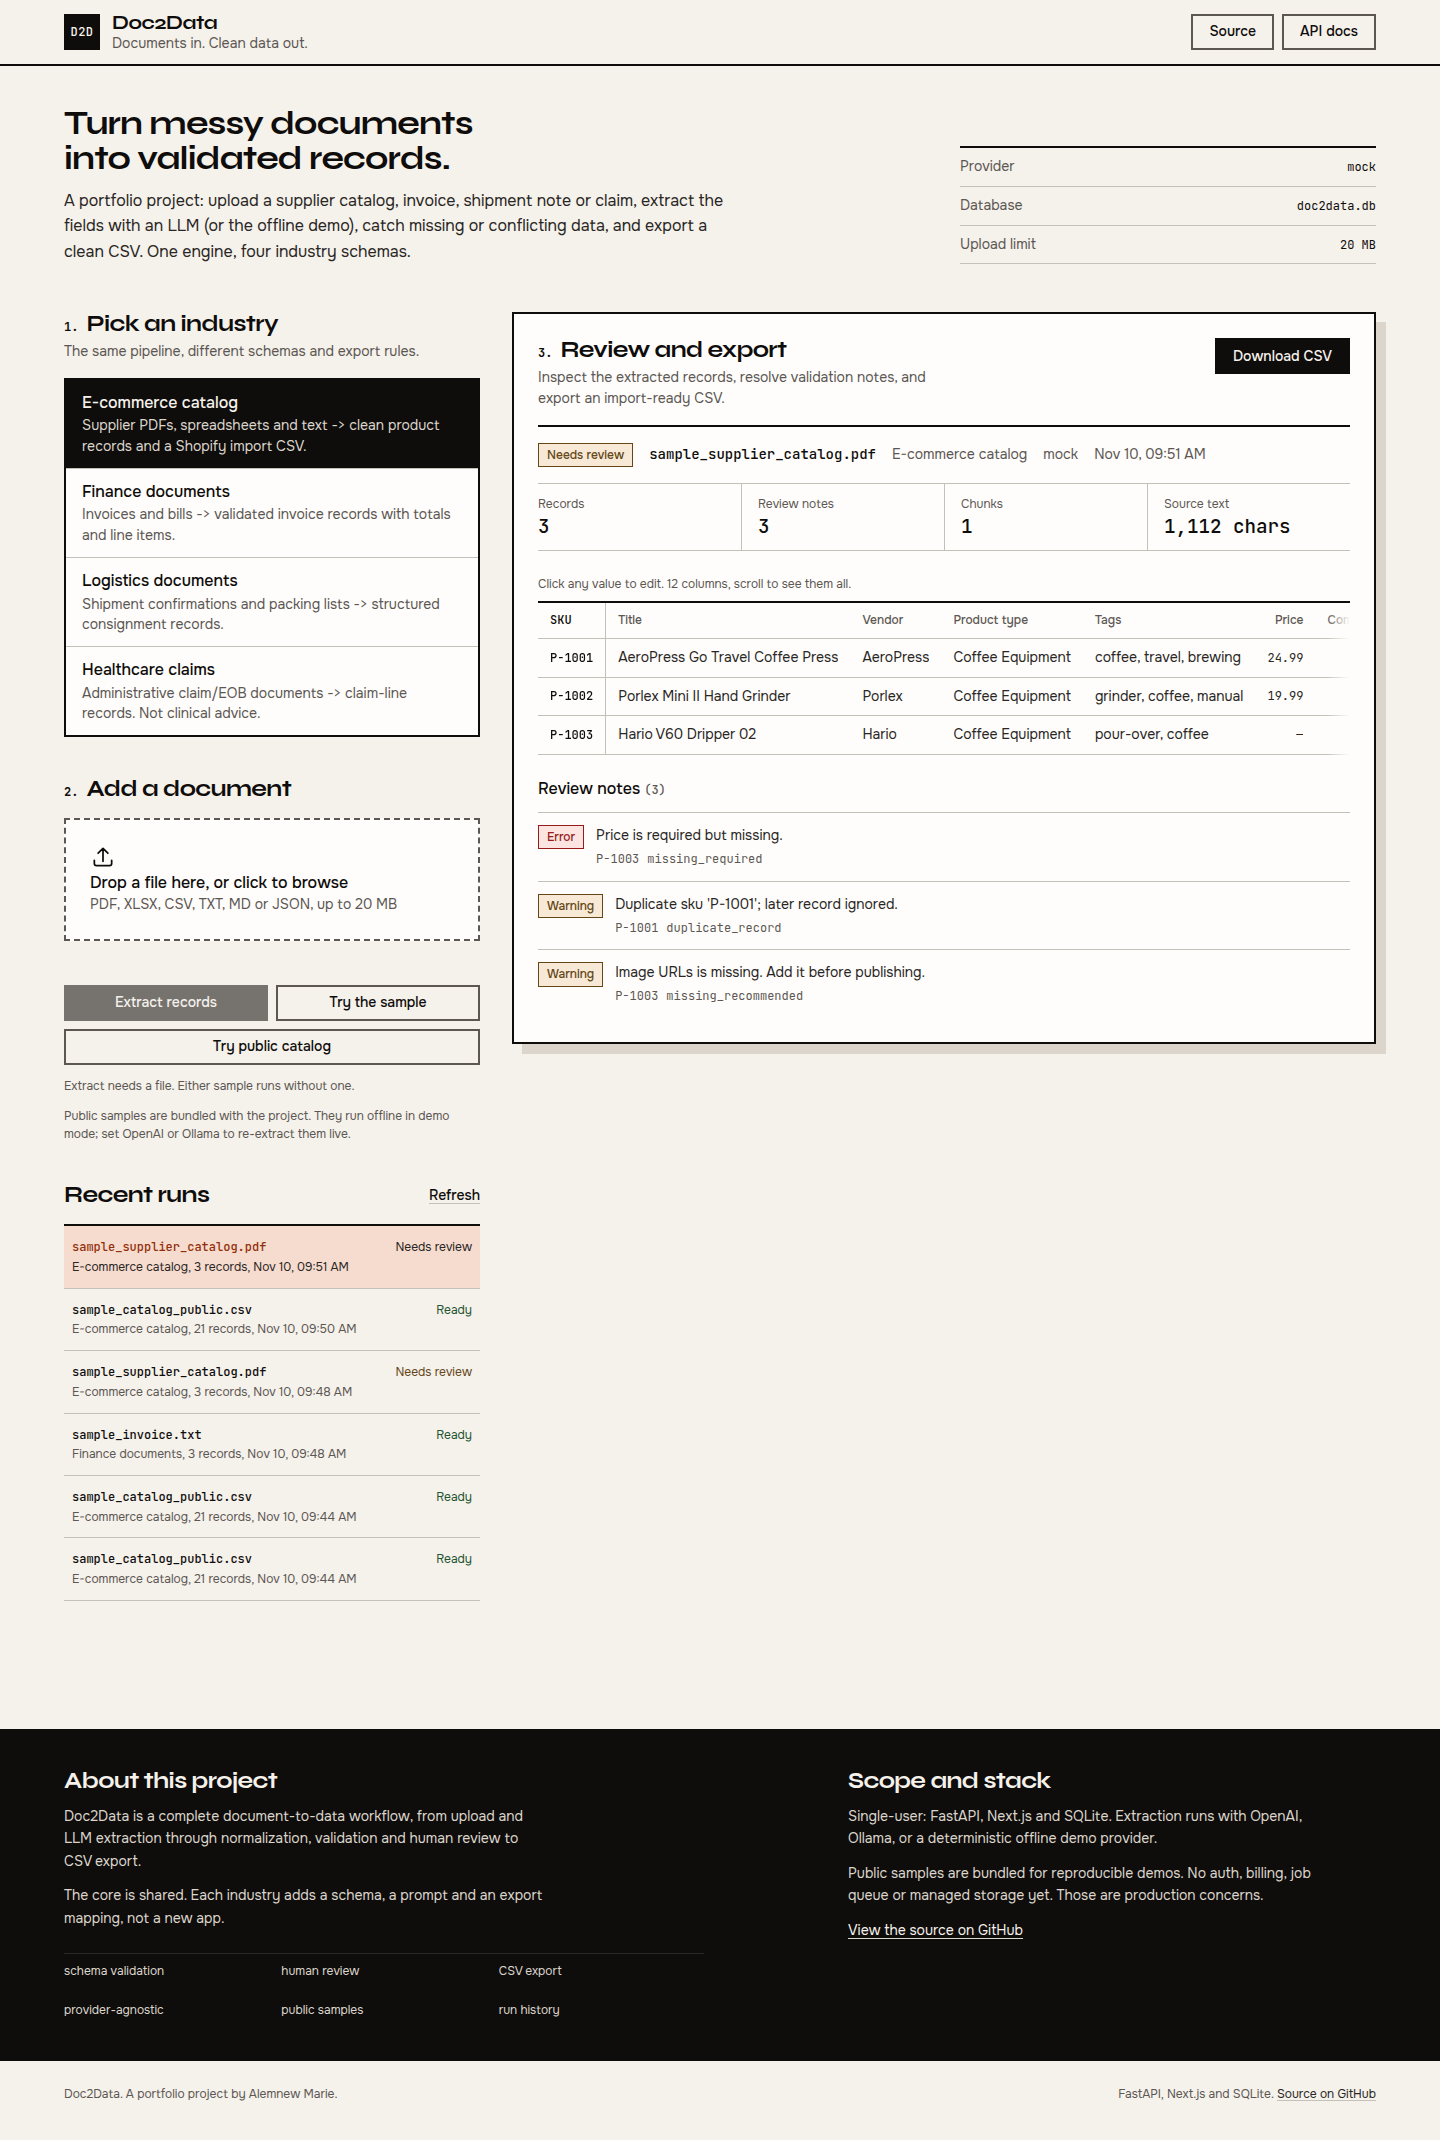
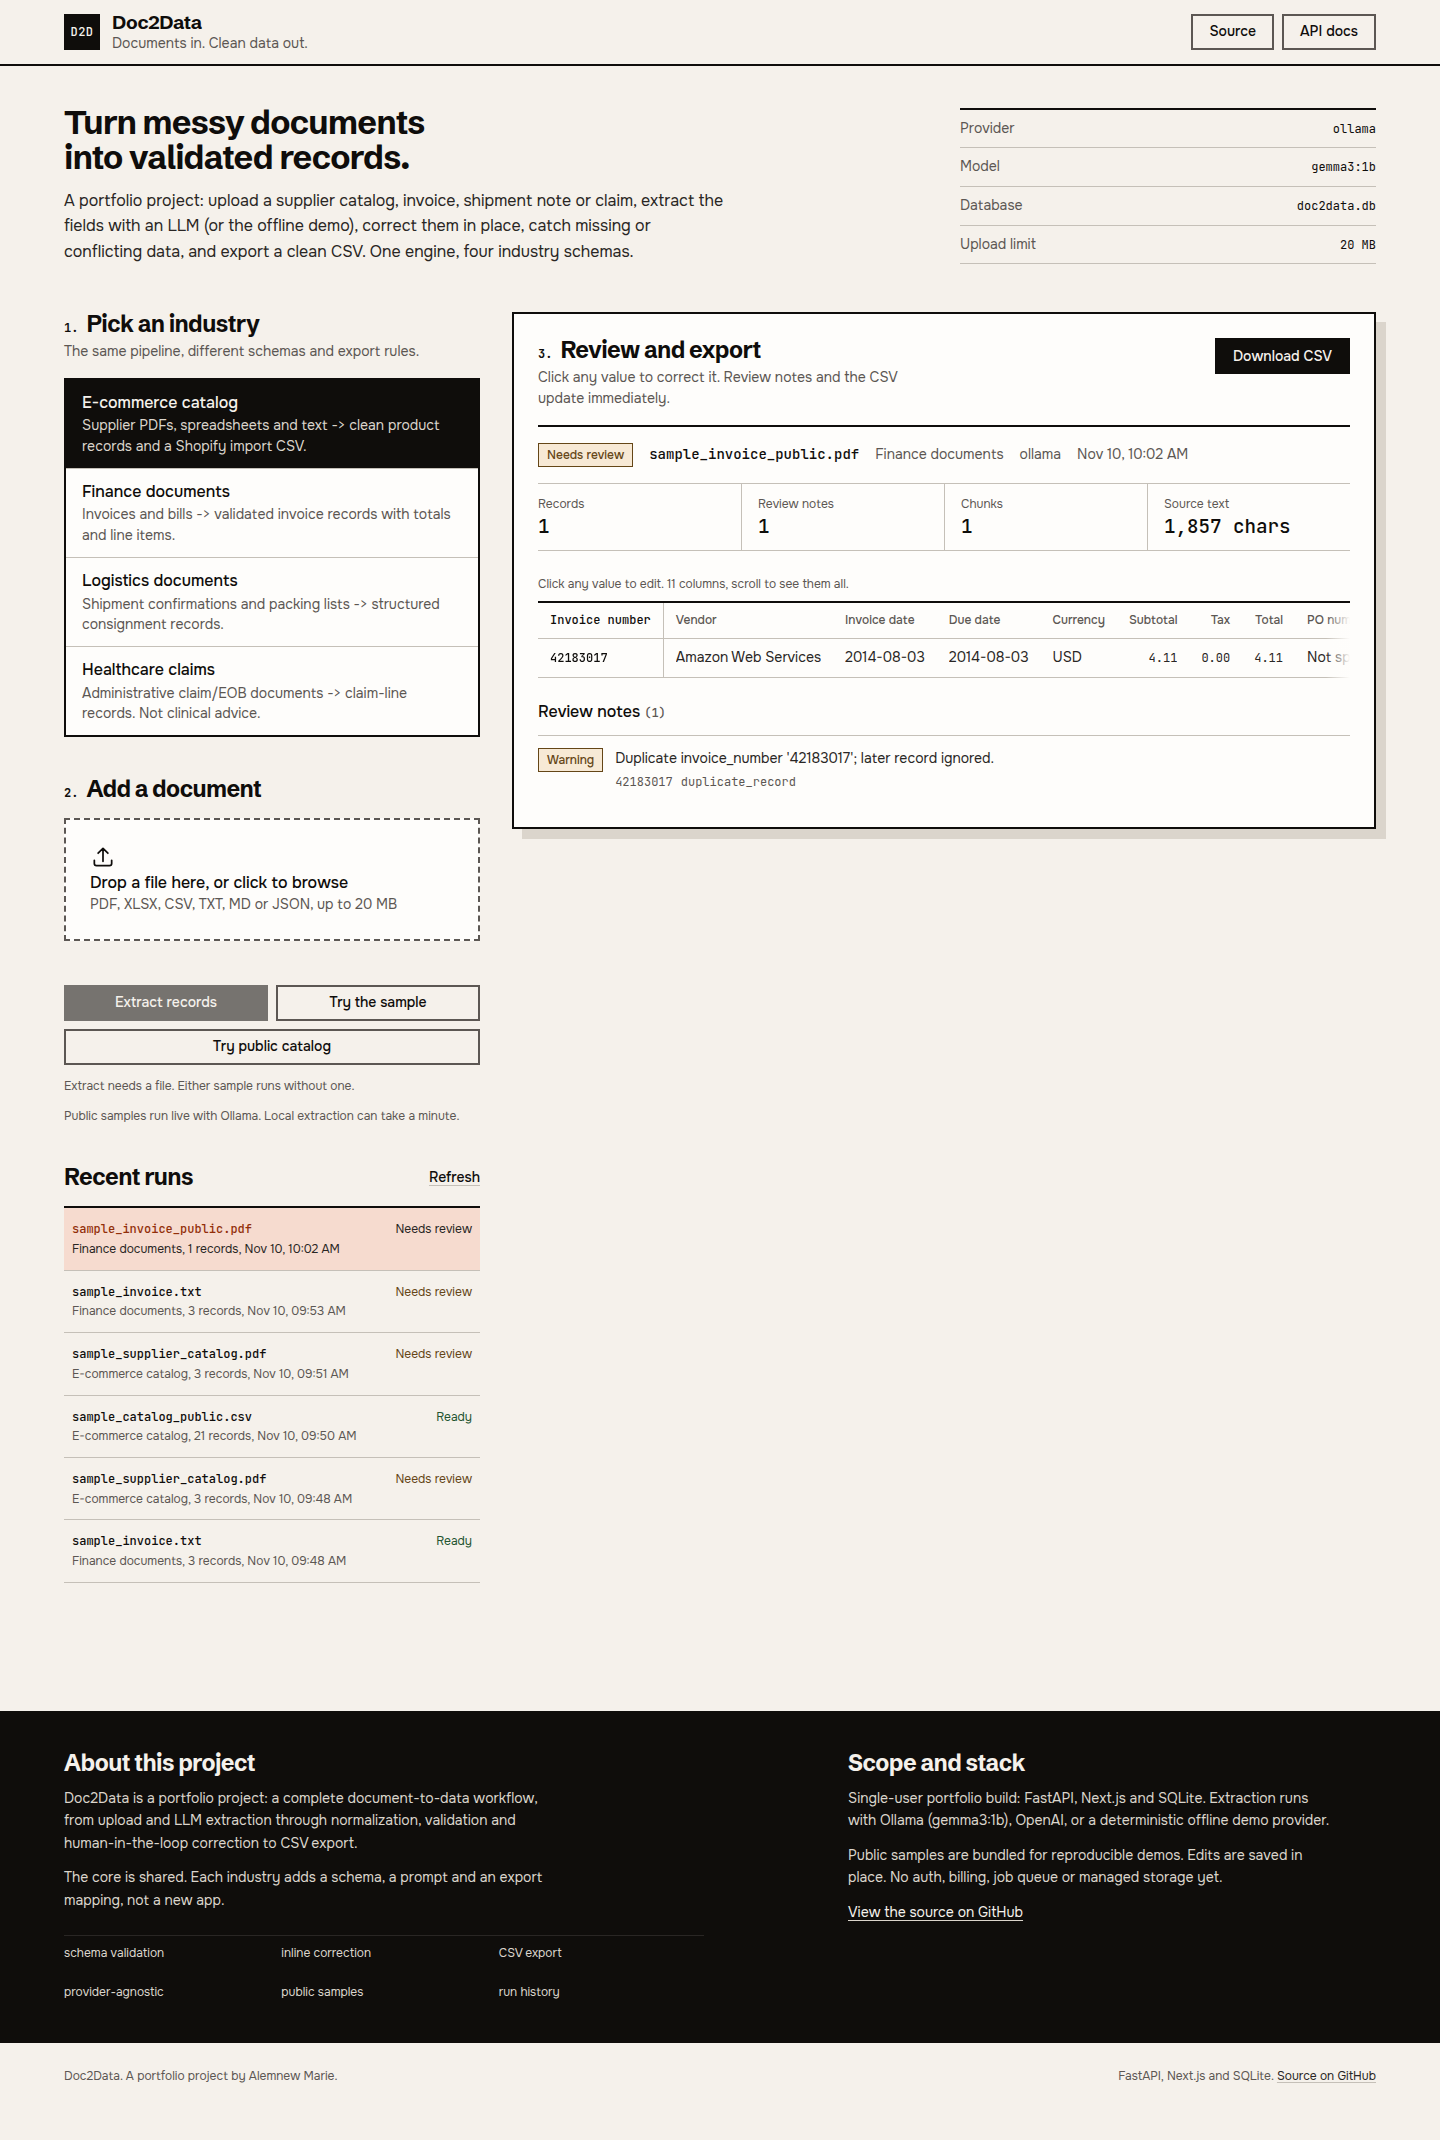
feat: surface inline corrections and run the demo with Ollama gemma3:1b
Expose the active model in the health payload and spec panel, update the portfolio copy for human-in-the-loop correction, and document the Ollama demo setup. Add the Docker host-gateway alias and a local proxy target for Ollama on Linux.

diff --git a/frontend/app/page.tsx b/frontend/app/page.tsx
@@ -177,6 +177,13 @@ export default function Home() {
 
   const loading = pending !== null;
   const databaseName = health?.database?.split("/").pop() ?? null;
+  const liveProvider = health?.provider === "ollama" || health?.provider === "openai";
+  const providerLabel =
+    health?.provider === "ollama"
+      ? "Ollama"
+      : health?.provider === "openai"
+        ? "OpenAI"
+        : null;
 
   const selected = useMemo(
     () => verticals.find((item) => item.id === vertical),
@@ -348,15 +355,19 @@ export default function Home() {
               <h1 id="page-title">Turn messy documents into validated records.</h1>
               <p>
                 A portfolio project: upload a supplier catalog, invoice, shipment note
-                or claim, extract the fields with an LLM (or the offline demo), catch
-                missing or conflicting data, and export a clean CSV. One engine, four
-                industry schemas.
+                or claim, extract the fields with an LLM (or the offline demo), correct
+                them in place, catch missing or conflicting data, and export a clean
+                CSV. One engine, four industry schemas.
               </p>
             </div>
             <dl className="specs" aria-label="Extraction environment">
               <div>
                 <dt>Provider</dt>
                 <dd>{health?.provider ?? "unavailable"}</dd>
+              </div>
+              <div>
+                <dt>Model</dt>
+                <dd>{health?.model ?? "unavailable"}</dd>
               </div>
               <div>
                 <dt>Database</dt>
@@ -488,7 +499,11 @@ export default function Home() {
                     type="button"
                     onClick={() => handleExtract(true, true)}
                     disabled={loading}
-                    title="Load a bundled result from a public sample, or re-extract it live with a configured provider"
+                    title={
+                      liveProvider
+                        ? `Run the public sample live with ${providerLabel}`
+                        : "Load a bundled result from a public sample, or configure Ollama or OpenAI to re-extract it live"
+                    }
                     className="btn btn--wide"
                   >
                     {realSampleLabel}
@@ -517,8 +532,9 @@ export default function Home() {
                 Extract needs a file. Either sample runs without one.
               </p>
               <p className="helpline">
-                Public samples are bundled with the project. They run offline in demo
-                mode; set OpenAI or Ollama to re-extract them live.
+                {liveProvider
+                  ? `Public samples run live with ${providerLabel}. Local extraction can take a minute.`
+                  : "Public samples are bundled with the project. They run offline in demo mode; set Ollama (gemma3:1b) or OpenAI to re-extract them live."}
               </p>
             </section>
 
@@ -532,8 +548,8 @@ export default function Home() {
                     <span className="step">3.</span> Review and export
                   </h2>
                   <p className="stage__sub">
-                    Inspect the extracted records, resolve validation notes, and export
-                    an import-ready CSV.
+                    Click any value to correct it. Review notes and the CSV update
+                    immediately.
                   </p>
                 </div>
                 {run && (
@@ -779,9 +795,9 @@ export default function Home() {
             <div className="band__col">
               <h2 id="about-title">About this project</h2>
               <p>
-                Doc2Data is a complete document-to-data
+                Doc2Data is a portfolio project: a complete document-to-data
                 workflow, from upload and LLM extraction through normalization,
-                validation and human review to CSV export.
+                validation and human-in-the-loop correction to CSV export.
               </p>
               <p>
                 The core is shared. Each industry adds a schema, a prompt and an export
@@ -790,7 +806,7 @@ export default function Home() {
               <ul className="tags">
                 {[
                   "schema validation",
-                  "human review",
+                  "inline correction",
                   "CSV export",
                   "provider-agnostic",
                   "public samples",
@@ -803,12 +819,13 @@ export default function Home() {
             <div className="band__col band__col--status">
               <h2>Scope and stack</h2>
               <p>
-                Single-user: FastAPI, Next.js and SQLite. Extraction
-                runs with OpenAI, Ollama, or a deterministic offline demo provider.
+                Single-user portfolio build: FastAPI, Next.js and SQLite. Extraction
+                runs with Ollama (gemma3:1b), OpenAI, or a deterministic offline demo
+                provider.
               </p>
               <p>
-                Public samples are bundled for reproducible demos. No auth, billing,
-                job queue or managed storage yet. Those are production concerns.
+                Public samples are bundled for reproducible demos. Edits are saved in
+                place. No auth, billing, job queue or managed storage yet.
               </p>
               <p>
                 <a

diff --git a/frontend/lib/types.ts b/frontend/lib/types.ts
@@ -18,6 +18,7 @@ export type Vertical = {
 export type Health = {
   status: string;
   provider: string;
+  model: string;
   verticals: string[];
   database: string;
   max_upload_mb: number;

diff --git a/backend/app/routers/doc2data.py b/backend/app/routers/doc2data.py
@@ -14,7 +14,13 @@ from fastapi import APIRouter, File, Form, HTTPException, UploadFile
 from fastapi.responses import Response
 from pydantic import BaseModel, Field
 
-from app.core.config import DATABASE_PATH, MAX_UPLOAD_MB, resolved_provider
+from app.core.config import (
+    DATABASE_PATH,
+    MAX_UPLOAD_MB,
+    OLLAMA_MODEL,
+    OPENAI_MODEL,
+    resolved_provider,
+)
 from app.doc2data.export import export_csv
 from app.doc2data.extract import (
     ExtractionError,
@@ -152,9 +158,18 @@ def verticals() -> list[dict[str, object]]:
 
 @router.get("/health")
 def health() -> dict[str, object]:
+    provider = resolved_provider()
+    model = (
+        OLLAMA_MODEL
+        if provider == "ollama"
+        else OPENAI_MODEL
+        if provider == "openai"
+        else "mock"
+    )
     return {
         "status": "ok",
-        "provider": resolved_provider(),
+        "provider": provider,
+        "model": model,
         "verticals": list(VERTICALS),
         "database": str(DATABASE_PATH),
         "max_upload_mb": MAX_UPLOAD_MB,

diff --git a/backend/tests/test_api.py b/backend/tests/test_api.py
@@ -16,6 +16,7 @@ def test_verticals_and_health():
         health = client.get("/api/doc2data/health")
         assert health.status_code == 200
         assert health.json()["provider"] == "mock"
+        assert health.json()["model"] == "mock"
 
 
 def test_sample_extraction_and_export():

diff --git a/README.md b/README.md
@@ -29,7 +29,7 @@ Doc2Data is the workflow layer:
 3. Extract structured fields with an LLM (or the offline mock).
 4. Normalize units, currencies, prices and dimensions.
 5. Validate required fields, duplicates, totals and cross-field rules.
-6. Review the exceptions in a human-in-the-loop screen.
+6. Review and correct exceptions in a human-in-the-loop screen; edits are re-validated.
 7. Export Shopify CSV or a generic industry CSV.
 
 The core pipeline is shared. Adding an industry means adding a schema, a prompt and an
@@ -60,8 +60,8 @@ pipeline. E-commerce is the reference implementation.
 
 The default provider is `mock`, a deterministic parser for the synthetic samples. The
 public-sample buttons also work offline by loading bundled demo results from
-`sample_data/real_results/`. Set `LLM_PROVIDER=openai` or `LLM_PROVIDER=ollama` to run
-the original documents live.
+`sample_data/real_results/`. Set `LLM_PROVIDER=ollama` and `OLLAMA_MODEL=gemma3:1b`
+(or `LLM_PROVIDER=openai`) to run the original documents live.
 
 ## Real documents for demos and evals
 
@@ -119,16 +119,25 @@ OPENAI_MODEL=gpt-4o-mini
 **Ollama (local)**
 
 ```bash
-ollama pull llama3.2
+ollama pull gemma3:1b
 ```
 
 ```env
 LLM_PROVIDER=ollama
 OLLAMA_BASE_URL=http://localhost:11434/v1
-OLLAMA_MODEL=llama3.2
+OLLAMA_MODEL=gemma3:1b
 ```
 
-In Docker, point `OLLAMA_BASE_URL` at `http://host.docker.internal:11434/v1`.
+In Docker, point `OLLAMA_BASE_URL` at `http://host.docker.internal:11434/v1`. The
+compose file adds the `host.docker.internal:host-gateway` alias so Docker on Linux can
+reach the host Ollama.
+
+Ollama listens on `127.0.0.1` by default on Linux. Either expose it on all interfaces
+(`OLLAMA_HOST=0.0.0.0:11434` in the Ollama service) or run the local bridge:
+
+```bash
+make ollama-proxy
+```
 
 The bundled public samples are a Shopify catalog, AWS invoice, VICS BOL and CMS-1500
 claim. The invoice and BOL were verified with `gemma3:1b` locally; a frontier model
@@ -184,7 +193,7 @@ Key modules:
 | GET | `/api/doc2data/runs/{id}` | Full run + records + warnings |
 | PATCH | `/api/doc2data/runs/{id}/records/{index}` | Edit one field, then re-normalize and re-validate |
 | GET | `/api/doc2data/runs/{id}/export.csv` | Download CSV |
-| GET | `/api/doc2data/health` | Provider, verticals, database |
+| GET | `/api/doc2data/health` | Provider, model, verticals, database |
 
 ## Adding an industry
 
@@ -227,7 +236,8 @@ make check       # backend tests + frontend production build
   still depends on the model.
 - SQLite is single-instance. Production needs Postgres/Supabase, object storage and a job queue.
 - No auth, workspaces or billing yet.
-- LLM output is validated, not guaranteed. The review screen is the control.
+- Inline edits overwrite the run in place; there is no correction-history ledger yet.
+- LLM output is validated, not guaranteed. The review table is the control.
 
 ## Roadmap
 

diff --git a/docs/REAL_DOCS.md b/docs/REAL_DOCS.md
@@ -13,8 +13,8 @@ Doc2Data already bundles public demo samples for every vertical:
 - `sample_claim_public.pdf` — synthetic administrative claim on the public CMS-1500 form
 
 With the default `mock` provider, the UI serves a bundled demo result for each from
-`backend/app/doc2data/sample_data/real_results/`. Set OpenAI or Ollama to extract the
-original documents live.
+`backend/app/doc2data/sample_data/real_results/`. Set `LLM_PROVIDER=ollama` with
+`OLLAMA_MODEL=gemma3:1b` (or OpenAI) to extract the original documents live.
 
 Do not use real customer documents in the public demo. Use **public templates, public datasets, or synthetic data with realistic layouts**. Keep private documents in a gitignored folder.
 

diff --git a/backend/app/doc2data/sample_data/README.md b/backend/app/doc2data/sample_data/README.md
@@ -4,8 +4,8 @@ These files power the **Try the sample** and **Try public catalog / invoice / BO
 buttons.
 
 When `LLM_PROVIDER=mock`, the public-sample buttons load the bundled demo result in
-`real_results/<vertical>.json` so the demo works offline. Configure OpenAI or Ollama to
-run the original documents live.
+`real_results/<vertical>.json` so the demo works offline. Configure Ollama
+(`gemma3:1b`) or OpenAI to run the original documents live.
 
 | File | Type | Source / notes |
 |---|---|---|
